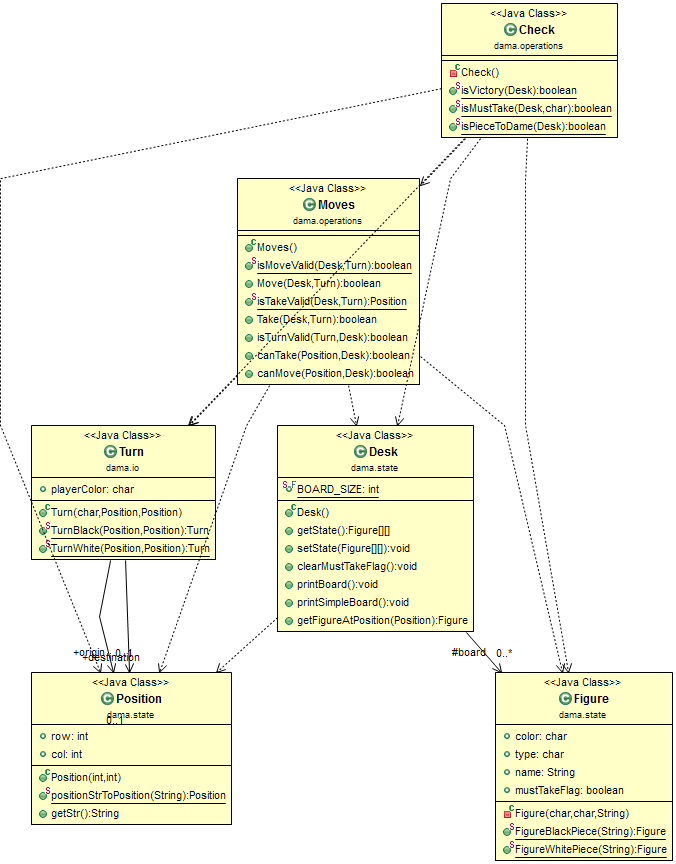
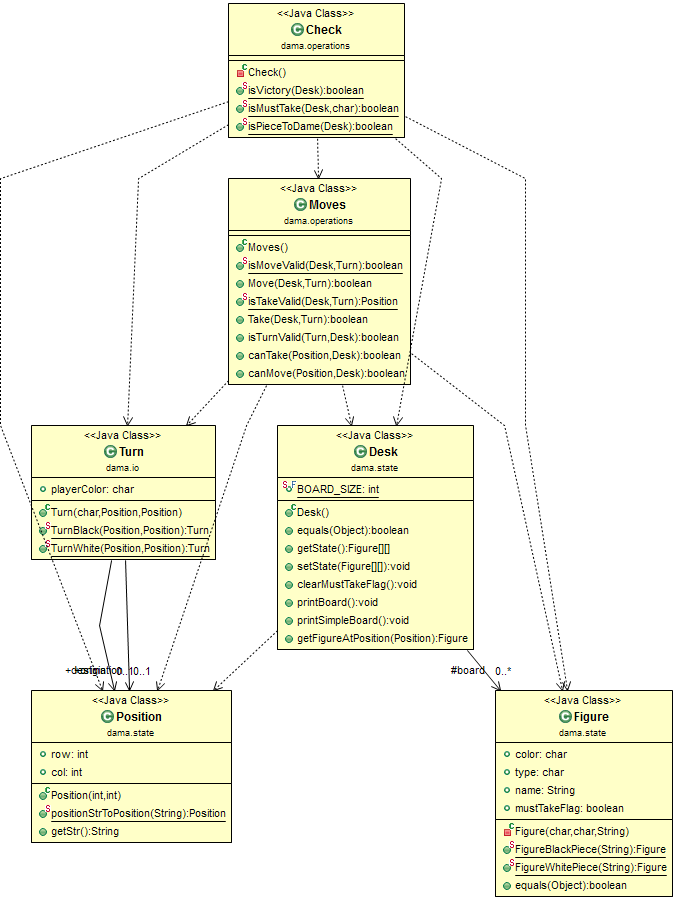
cisteni v desce a testech, uprava diagramu

diff --git a/src/dama/TestRoman.java b/src/dama/TestRoman.java
@@ -1,9 +1,7 @@
 package dama;
 
 import static org.junit.Assert.assertEquals;
-//import static org.junit.Assert.assertFalse;
 import static org.junit.Assert.assertNull;
-//import static org.junit.Assert.assertTrue;
 
 import org.junit.After;
 import org.junit.Before;
@@ -46,49 +44,12 @@ public class TestRoman {
         Position p9i = new Position(8 ,8);//Position(row, col)
         assertNull("Pozice p9i neexistuje.", d.getFigureAtPosition(p9i));
 
-        Position p8a = new Position(7, 0);//Position(row, col)
+        Position p8a = new Position(7, 0);
         assertNull("Na pozici p8a nikdo neni", d.getFigureAtPosition(p8a));
 
-        Position p8b = new Position(7, 1);//Position(row, col)
+        Position p8b = new Position(7, 1);
         Figure token = Figure.FigureBlackPiece("Token");
         assertEquals("Na pozici 8B je Token", token, d.getFigureAtPosition(p8b));
-
-        /*        Position p1 = d1.getPositionAt('h', 5);
-        Position p2 = p1.nextPosition(-1, 2);
-        Position p3 = d1.getPositionAt('g', 7);
-        assertEquals("Posun z pozice h5 o (-1,2) = pozice g7", p2, p3);
-
-        Position p10 = d1.getPositionAt('h', 5);
-        assertEquals("Spravna pozice h5", p10, p1);
-        assertNull("Pozice h5 je prazda (bez figurky).", p10.getFigure());
-
-        Position p11 = d1.getPositionAt('h', 12);
-        assertNull("Pozice h12 neexistuje.", p11);*/
- /*       Desk d1 = new Desk(8);
-
-        Figure f1 = new Rook(d1.getPositionAt('d', 2));
-
-        Figure f2 = d1.getPositionAt('d', 2).getFigure();
-        assertEquals("Na pozici d2 je vez.", f2, f1);
-
-        Figure f21 = d1.getFigureAt('d', 2);
-        assertEquals("Na pozici d2 je vez", f21, f1);
-        Figure f22 = d1.getFigureAt('d', 5);
-        assertNull("Pozice d5 je prazda (bez figurky).", f22);
-
-
-        Position p1 = d1.getPositionAt('d', 3);
-        assertTrue("Vez se muze presunout z d2 na d3.", f2.canMove(p1));
-        assertTrue("Vez se presune z d2 na d3.", f2.move(p1));
-        assertTrue("Pozice d2 je prazdna", d1.getPositionAt('d', 2).getFigure() == null);
-
-        Figure f3 = d1.getPositionAt('d', 3).getFigure();
-        assertEquals("Na pozici d3 je vez.", f3, f1);
-        assertEquals("Vez je na pozici d3.", f3.getPosition(), p1);
-
-        Position p2 = d1.getPositionAt('g', 5);
-        assertFalse("Vez se nemuze presunout z d3 na g5.", f2.canMove(p2));
-        assertFalse("Pokus o presun veze z d3 na g5 je neuspesny.", f2.move(p2));*/
     }
 
 }

diff --git a/src/dama/state/Desk.java b/src/dama/state/Desk.java
@@ -15,14 +15,6 @@ public class Desk {
     public Desk()
     {
         this.board = new Figure[BOARD_SIZE][BOARD_SIZE];
-        int col, row;
-
-        //pro jistotu
-        for (row = 0; row < BOARD_SIZE; row++){
-            for (col = 0; col < BOARD_SIZE; col++){
-                this.board[row][col] = null;
-            }
-        }
 
         this.board[0][0] = Figure.FigureWhitePiece("Stan");
         this.board[0][2] = Figure.FigureWhitePiece("Randy");
@@ -50,9 +42,9 @@ public class Desk {
         this.board[7][5] = Figure.FigureBlackPiece("Willzyx");
         this.board[7][7] = Figure.FigureBlackPiece("Professor_Chaos");
 
-//        for (row=0; row<BOARD_SIZE; row++)
+//        for (int row=0; row<BOARD_SIZE; row++)
 //        {
-//            for (col=0; col<BOARD_SIZE; col++)
+//            for (int col=0; col<BOARD_SIZE; col++)
 //            {
 //                //bile figurky na sude radky a sude sloupce (sude vzhledem k indexu do pole)
 //                if ( ((row==0) || (row==2)) && (col%2==0) )

diff --git a/src/dama/state/Position.java b/src/dama/state/Position.java
@@ -4,11 +4,10 @@ public class Position {
     public int row;
     public int col;
 
-    //konstruktor----------------------------------------------------------------------------------------------------------------------------------------------------------
     public Position(int row, int col)
     {
-        this.row=row;
-        this.col=col;
+        this.row = row;
+        this.col = col;
     }
 
     //static metoda tridy rovnou vytvori po konverzi z retezce novou instanci pozice---------------------------------------------------------------------------------------

diff --git a/src/dama/Dama.java b/src/dama/Dama.java
@@ -17,6 +17,8 @@ public class Dama {
         // ukol3:
         // TODO junit testy
         // TODO ant
+        // TODO svn
+        // TODO dorobit architekturu.pdf
 
         // projekt:
         // TODO javadoc
